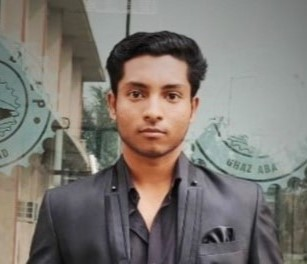
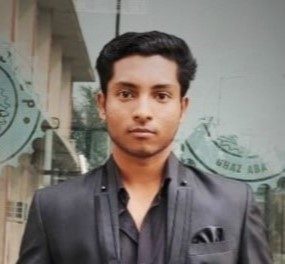
change

diff --git a/index.html b/index.html
@@ -90,7 +90,7 @@
         <div class="row">
             <div class="col-lg-4 section">
                 <img class="bd-placeholder-img rounded-circle" width="140" height="140"
-                    src="https://miro.medium.com/v2/resize:fit:1400/1*pzbYin_gqDNVjOSLQs06NQ.jpeg" role="img" aria-label="Placeholder"
+                    src="/assets/imgTeam/shivam_lead-technical.jpg" role="img" aria-label="Placeholder"
                     preserveAspectRatio="xMidYMid slice" focusable="false">
                 <title>Placeholder</title>
                 <rect width="100%" height="100%" fill="var(--bs-secondary-color)"></rect>
@@ -159,7 +159,7 @@
                 <title>Placeholder</title>
                 <rect width="100%" height="100%" fill="var(--bs-secondary-color)"></rect>
                 </img>
-                <h4 class="fw-bold">Sneha Verma</h4>
+                <h4 class="fw-bold">Sneha</h4>
                 <p>Event Management Lead<br>
                     <a href="https://www.linkedin.com/in/sneha-verma-b9659b2a3/" target="_blank">
                         <svg xmlns="http://www.w3.org/2000/svg" width="16" height="16" fill="currentColor"
@@ -255,7 +255,7 @@
             </div><!-- /.col-lg-4 -->
             <div class="col-lg-4 section">
                 <img class="bd-placeholder-img rounded-circle" width="140" height="140"
[1 lines of base64/hex data omitted]
+                    src="/assets/imgTeam/pragati_co-lead-event.jpg" role="img" aria-label="Placeholder"
                     preserveAspectRatio="xMidYMid slice" focusable="false">
                 <title>Placeholder</title>
                 <rect width="100%" height="100%" fill="var(--bs-secondary-color)"></rect>
@@ -298,7 +298,7 @@
                 <rect width="100%" height="100%" fill="var(--bs-secondary-color)"></rect>
                 </img>
                 <h4 class="fw-bold">Priya Bhardwaj</h4>
-                <p>Public Outreach & Social Media Lead<br>
+                <p>Public Outreach Lead<br>
                     <a href="https://www.linkedin.com/in/priya-bhardwaj-4b1669280/" target="_blank">
                         <svg xmlns="http://www.w3.org/2000/svg" width="16" height="16" fill="currentColor"
                             class="bi bi-linkedin" viewBox="0 0 16 16">
@@ -330,7 +330,7 @@
                 <rect width="100%" height="100%" fill="var(--bs-secondary-color)"></rect>
                 </img>
                 <h4 class="fw-bold">Khushi</h4>
-                <p>Social Media Co-Lead<br>
+                <p>Social Media Lead<br>
                     <a href="https://www.linkedin.com/in/khushi-singhal-0a83a3273/" target="_blank">
                         <svg xmlns="http://www.w3.org/2000/svg" width="16" height="16" fill="currentColor"
                             class="bi bi-linkedin" viewBox="0 0 16 16">

diff --git a/style.css b/style.css
@@ -7,8 +7,6 @@
     font-style: italic;
 }
 .memberDiv{
-    background:linear-gradient(to left,rgb(255, 187, 187),rgb(197, 255, 140));
-
     text-align: center;
 }
 a{
@@ -30,8 +28,3 @@ svg{
     height: 25px;
     padding: 0px 3px;
 }
-.custom-footer {
-    width: 80%;
-    margin: 0 auto; /* Centers the footer */
-  }
-  
